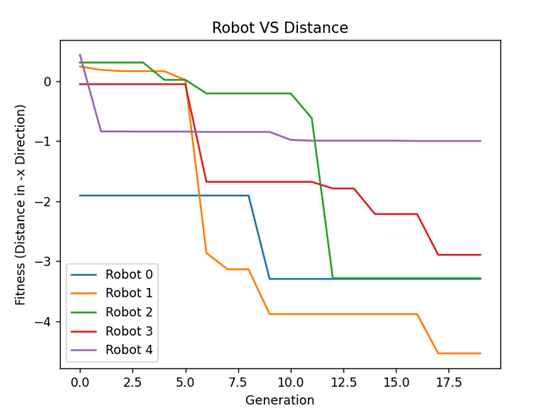
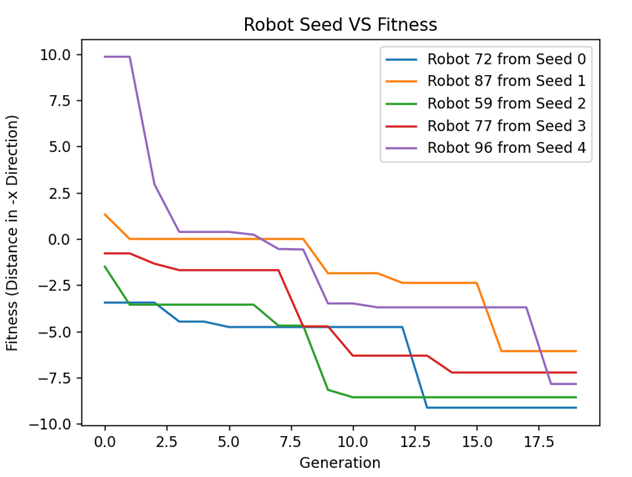
seed and readme updates

Changed region(s): [[0.0, 0.0293, 0.9784, 0.9976], [0.6421, 0.4694, 0.7644, 0.5575], [0.5198, 0.2347, 0.5504, 0.2641]]

diff --git a/button.py b/button.py
@@ -11,14 +11,19 @@ import runSim
 # os.system("del body*.urdf")
 # exit()
 
-# Sets the random seed
-np.random.seed(27)
-random.seed(27)
+# Change this to false if you want a fully random PHC every time
+setSeed = True
 
 fitnessDict = dict()
 robotDict = dict()
 # Runs the robot (if evolved, the fitness function will evolve based on the negative x direction)
 for i in range(5):
+    # Sets the random seed
+    if setSeed:
+        np.random.seed(i + c.seedShift)
+        random.seed(i + c.seedShift)
+
+    # Carrys out PHC
     print("\nSeed: " + str(i))
     print("")
     hc = p.PARALLEL_HILL_CLIMBER()
@@ -45,7 +50,7 @@ runSim.Start_Simulation(robotDict[bestIndex][1], "GUI")
 
 # plot
 for i in range(5):
-    plt.plot(fitnessDict[i], label="Seed {}".format(i))
+    plt.plot(fitnessDict[i], label="Robot {} from Seed {}".format(robotDict[i][0][4], i))
     # add labels and title to the plot
 plt.xlabel('Generation')
 plt.ylabel('Fitness (Distance in -x Direction)')

diff --git a/constants.py b/constants.py
@@ -1,5 +1,6 @@
 sleepTime = 1/120
-iterations = 1500
+iterations = 2500
+seedShift = 49
 frequency = 10
 maxForce = 125
 phaseOffset = 3.14159/2

diff --git a/README.md b/README.md
@@ -1,8 +1,10 @@
 # Spencer Rothfleisch
 # Final Project
-# The Engineer
+# The Artist
 
-In Assignment 8, I used the parallel hill climber to design morphology and behavior for locomotion for my robot from Assignment 7. This randomized robot has a random number of randomly shaped links with random sensor placement, and the links with and without sensors are colored as green and blue, respectively. The final project takes Assignment 8 and runs it for 10 parents x 500 generations x 10 seeds = 50,000 sims
+![FinalProjectGif](https://replace)
+
+In Assignment 8, I used the parallel hill climber to design morphology and behavior for locomotion for my robot from Assignment 7. This randomized robot has a random number of randomly shaped links with random sensor placement, and the links with and without sensors are colored as green and blue, respectively.
 
 The morphospace is as follows:<br />
 &nbsp;&nbsp;&nbsp;&nbsp;-Any body shape is possible that can be created from random links sized 0.5 to 2 units in the x, y, and z direction<br />
@@ -40,6 +42,8 @@ The algorithm is as follows:<br />
 &nbsp;&nbsp;&nbsp;&nbsp;&nbsp;&nbsp;&nbsp;&nbsp;f. This continues for 20 generations (configurable in constants.py)<br />
 &nbsp;&nbsp;&nbsp;&nbsp;5. Best evolution and its original parent are shown<br />
 &nbsp;&nbsp;&nbsp;&nbsp;6. The fitness of the 5 robots are [plotted](https://github.com/Suspence1127/mybots/blob/assignment8/samplePlot.png) and shown (example shows 5 seeds for 20 generations)<br />
+
+To see a 5 of the best performing robots (and their original parents), run button.py with seedShift = 30, 49, 60, 100, or 127 in constants.py.
 
 Diagram:
 ![alt text](https://github.com/Suspence1127/mybots/blob/assignment8/diagramNEW.jpg)
